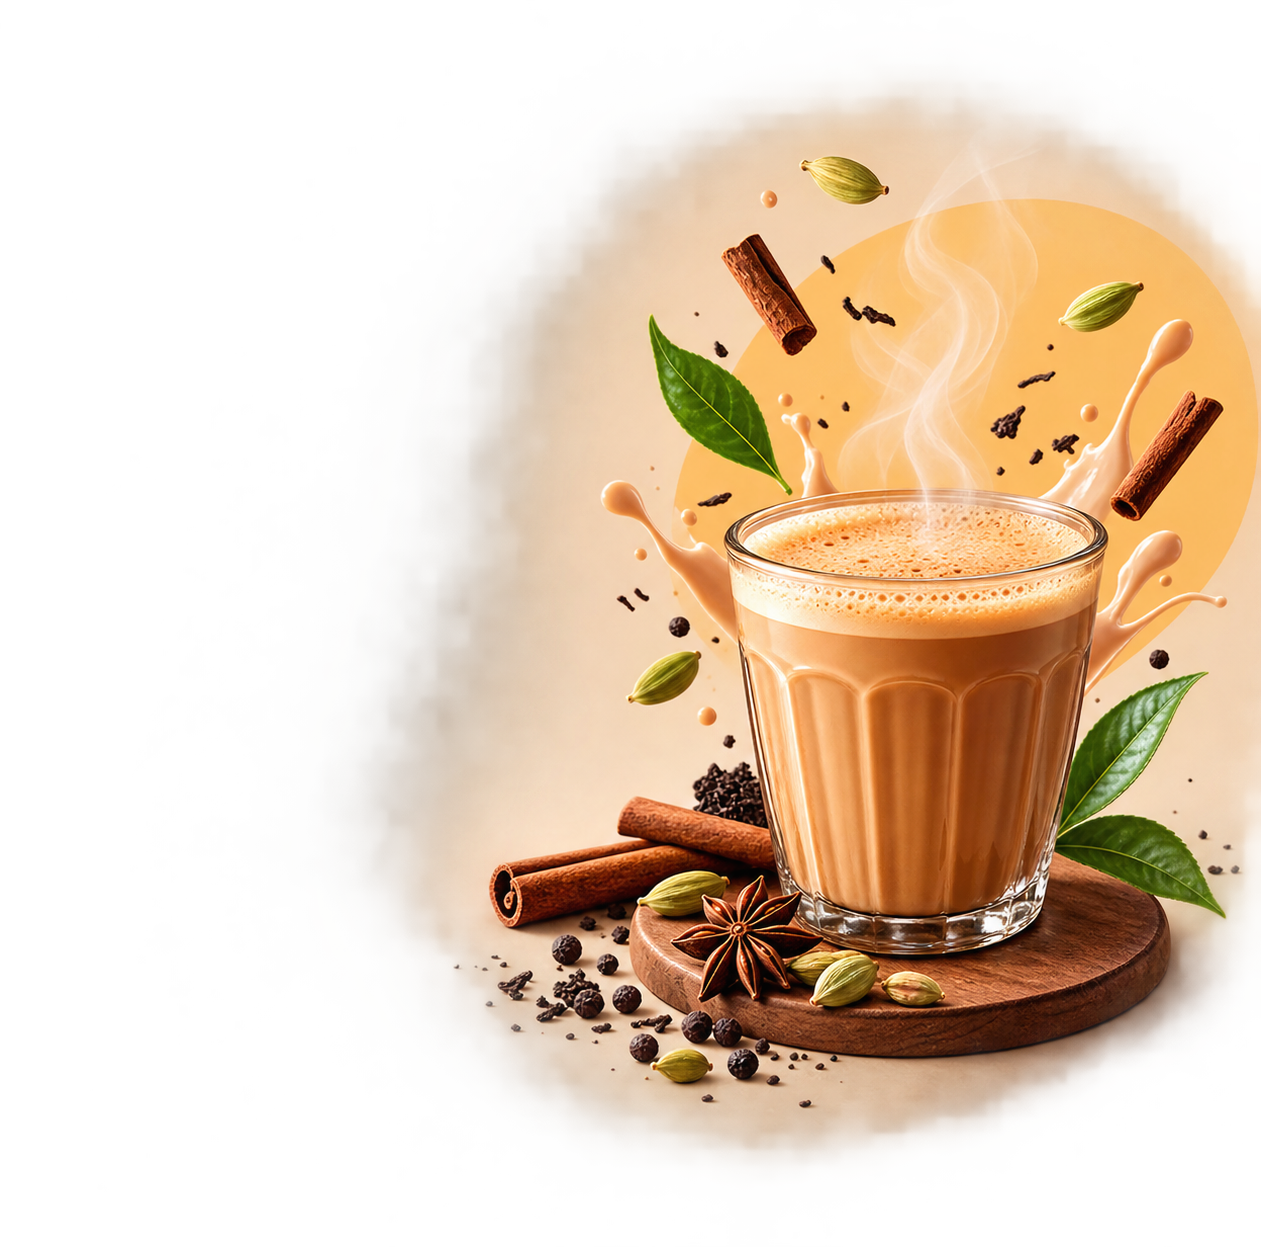
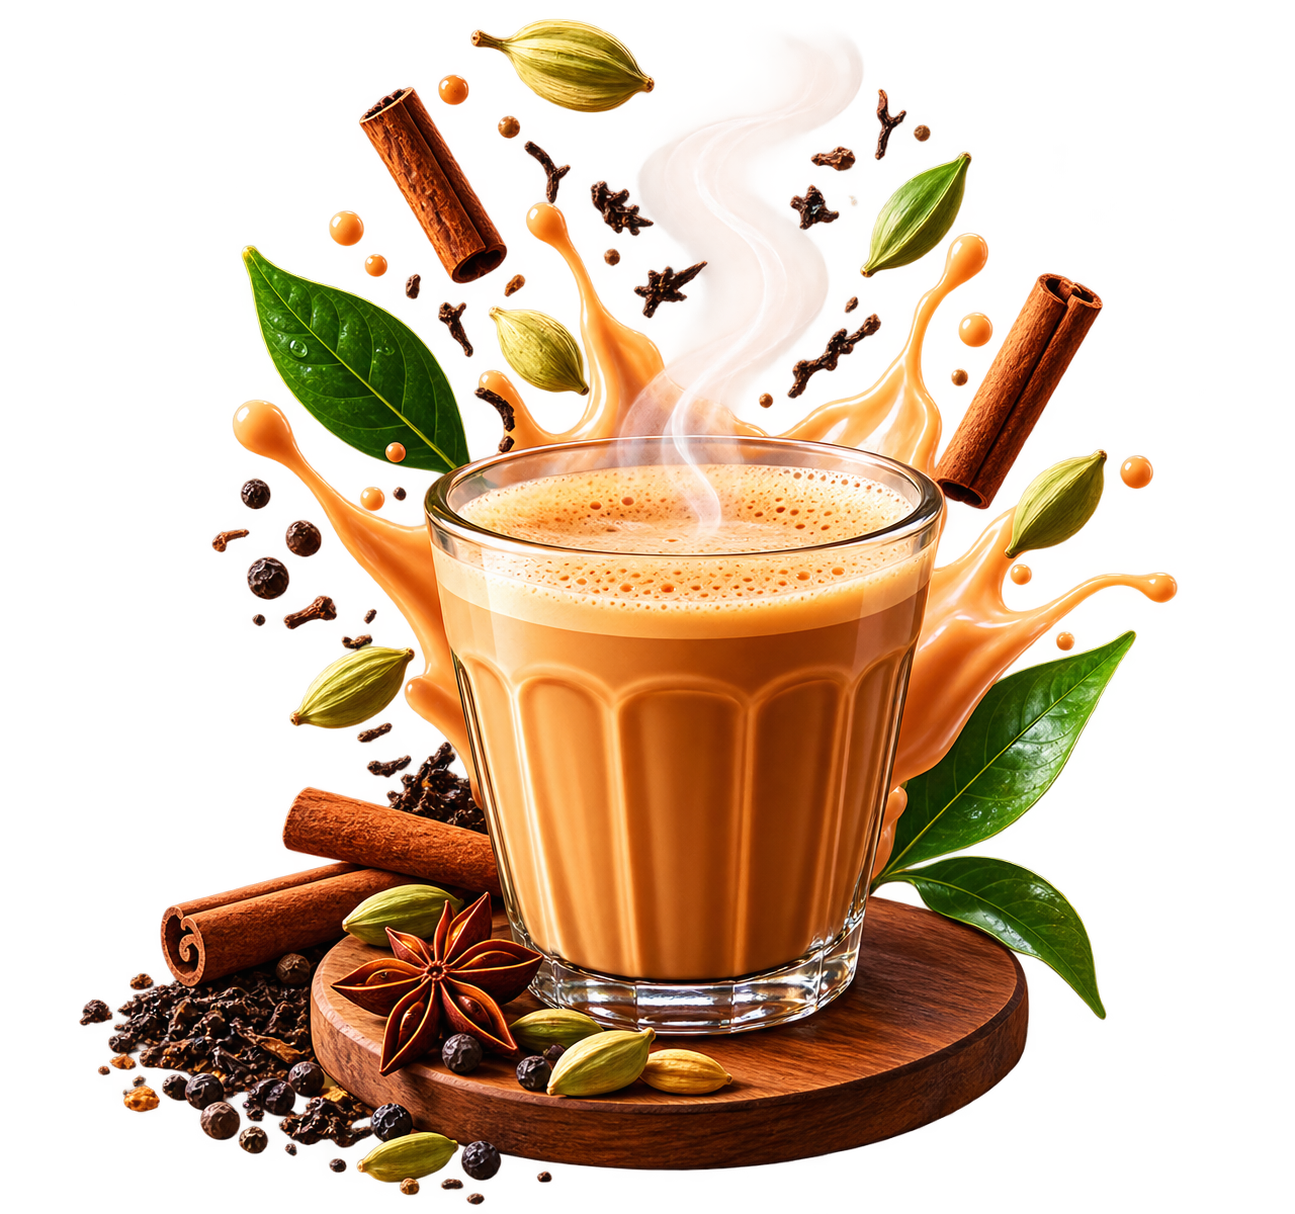
ui wellcome complete

diff --git a/frontend/src/App.css b/frontend/src/App.css
@@ -68,64 +68,69 @@
 
 .nav-links {
   display: flex;
-  gap: 31px;
+  align-items: center;
+  gap: 8px;
   margin-left: 120px;
+  padding: 6px;
+  border: 1px solid rgba(190, 140, 75, 0.15);
+  border-radius: 999px;
+  background: rgba(255, 255, 255, 0.45);
+  box-shadow: 0 4px 14px rgba(120, 70, 20, 0.06);
 }
 
 .nav-links a {
   position: relative;
-  color: #4d3728;
+  padding: 10px 17px;
+  border-radius: 999px;
+  color: #5b4635;
   font-size: 13px;
   font-weight: 600;
   text-decoration: none;
+  transition: all 0.25s ease;
 }
 
-.nav-links a.active::before {
-  position: absolute;
-  width: 16px;
-  height: 3px;
-  top: -13px;
-  left: 50%;
-
-  border-radius: 5px;
-  background: #dba640;
-
-  content: "";
-  transform: translateX(-50%);
+.nav-links a:hover {
+  color: #8c5b1e;
+  background: rgba(231, 183, 101, 0.18);
+  transform: translateY(-1px);
 }
 
+.nav-links a.active {
+  color: #6b4218;
+  font-weight: 800;
+  background: #f3d28d;
+  box-shadow: 0 4px 10px rgba(190, 130, 45, 0.18);
+}
 
 /* Profile Button */
 
 .profile {
-  width: 37px;
-  height: 37px;
-
-  border: 0;
+  width: 44px;
+  height: 44px;
+  border: 1px solid rgba(190, 130, 55, 0.35);
   border-radius: 50%;
   padding: 3px;
-
   cursor: pointer;
-
-  background: linear-gradient(145deg, #9a5934, #f2c08c);
-
-  box-shadow: 0 3px 10px #d9b193;
+  background: #fffaf1;
+  box-shadow: 0 5px 15px rgba(100, 55, 15, 0.12);
+  transition: all 0.25s ease;
 }
 
 .profile span {
   display: grid;
   width: 100%;
   height: 100%;
-
   place-items: center;
-
-  border-radius: inherit;
-
-  background: #fff5e7;
-  color: #482210;
-
-  font-size: 10px;
+  border-radius: 50%;
+  background: linear-gradient(145deg, #f3d49c, #e9b965);
+  color: #573313;
+  font-size: 12px;
   font-weight: 800;
+}
+
+.profile:hover {
+  transform: translateY(-2px) scale(1.04);
+  box-shadow: 0 8px 20px rgba(100, 55, 15, 0.18);
 }
 
 
@@ -199,17 +204,17 @@ h1 span {
   align-items: center;
   gap: 20px;
 
-  padding: 14px 21px;
+  padding: 15px 24px;
 
   border-radius: 999px;
 
   background: linear-gradient(125deg, #f7ce68, #e9a940);
 
-  box-shadow: 0 9px 18px rgba(195, 124, 29, 0.24);
+  box-shadow: 0 10px 22px rgba(195, 124, 29);
 
   color: #5a3511;
 
-  font-size: 13px;
+  font-size: 14px;
   font-weight: 800;
   text-decoration: none;
 
@@ -240,33 +245,40 @@ h1 span {
 .sun-glow {
   position: absolute;
 
-  width: 355px;
+  width: 800px;
   aspect-ratio: 1;
 
   border-radius: 50%;
 
   background: radial-gradient(
     circle,
-    rgba(255, 213, 145, 0.82),
-    rgba(247, 199, 133, 0.25) 52%,
-    transparent 70%
+    rgba(255, 196, 90, 0.35),
+    rgba(247, 199, 133, 0.25) 55%,
+    transparent 72%
   );
 }
 
 .tea-visual img {
-  position: relative;
-  z-index: 1;
-
-  width: min(450px, 128%);
+  width: min(390px, 110%);
   max-width: none;
-
   margin-top: 16px;
+  margin-left: -50px;
 
-  mix-blend-mode: multiply;
+  animation: floatChai 3s ease-in-out infinite;
+}
 
-  filter: drop-shadow(
-    0 23px 15px rgba(103, 52, 14, 0.21)
-  );
+@keyframes floatChai {
+  0% {
+    transform: translateY(0);
+  }
+
+  50% {
+    transform: translateY(-20px);
+  }
+
+  100% {
+    transform: translateY(0);
+  }
 }
 
 
@@ -277,23 +289,24 @@ h1 span {
   gap: 21px;
 
   position: relative;
-  z-index: 3;
+  z-index: 10;
 
   padding-top: 15px;
+  margin-left: 50px;
 }
 
 .mood {
   display: flex;
   align-items: center;
-  gap: 12px;
+  gap: 14px;
 }
 
 .emoji {
   display: grid;
   flex: 0 0 auto;
 
-  width: 42px;
-  height: 42px;
+  width: 46px;
+  height: 46px;
 
   place-items: center;
 
@@ -304,7 +317,7 @@ h1 span {
 
   box-shadow: 0 5px 12px rgba(154, 90, 34, 0.11);
 
-  font-size: 20px;
+  font-size: 21px;
 
   transform: rotate(-5deg);
 }
@@ -318,10 +331,18 @@ h1 span {
 
   color: #604632;
 
-  font-size: 11px;
-  line-height: 1.32;
+  font-size: 13px;
+  line-height: 1.4;
+  font-weight: 700;
+}
+.mood {
+  transition: transform 0.25s ease;
+  cursor: pointer;
 }
 
+.mood:hover {
+  transform: translateX(12px) scale(1.05);
+}
 
 /* Table Rings */
 

diff --git a/frontend/src/App.jsx b/frontend/src/App.jsx
@@ -23,7 +23,7 @@ function App() {
           </a>
 
           <div className="nav-links">
-            <a className="active" href="#intro">Intro</a>
+            <a className href="#intro">Intro</a>
             <a href="#process">Process</a>
             <a href="#flavours">Flavours</a>
             <a href="#places">Places</a>
